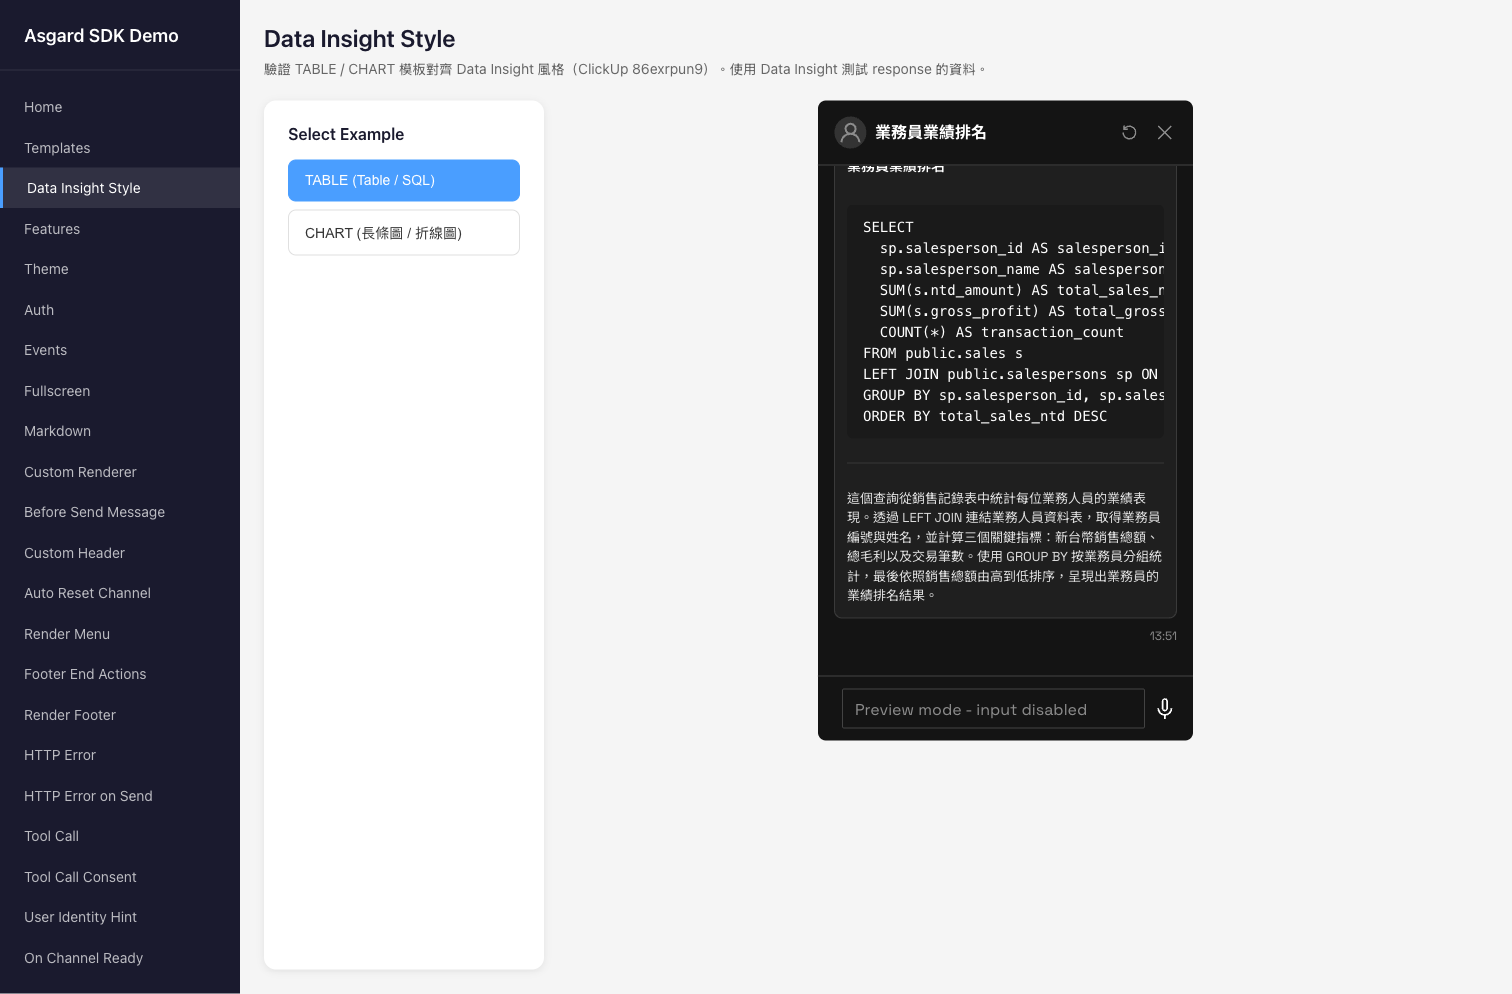
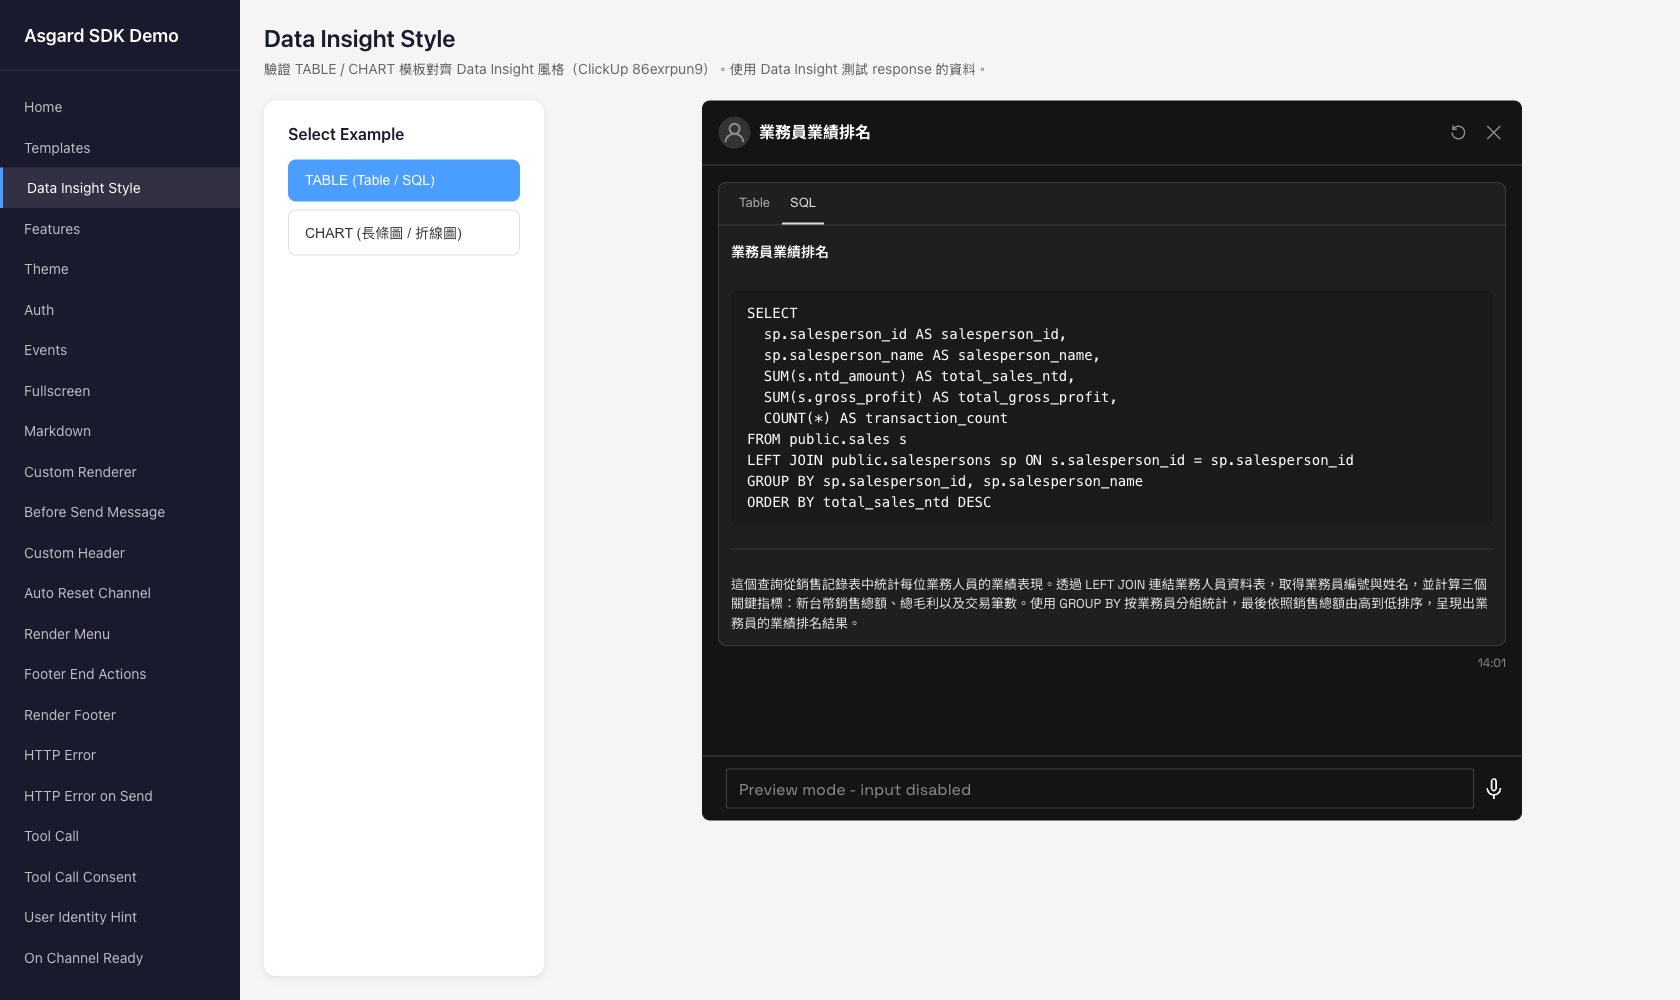
chore(react-demo): widen Data Insight style preview to match Data Insight panel
Data Insight renders the chat as a full-width panel (cards at 90%, charts ~600px). Make the /data-insight-style demo fill a wider box (theme width/height 100%, container max-width 820px) so the preview reflects how TABLE/CHART will look once integrated into Data Insight. Refresh screenshots. The SDK default width (375px) is unchanged; embedders control it via theme.

diff --git a/apps/react-demo/src/app/routes/data-insight-style/data-insight-style.tsx b/apps/react-demo/src/app/routes/data-insight-style/data-insight-style.tsx
@@ -20,6 +20,10 @@ const exampleCreators: Record<ExampleType, () => ReturnType<typeof createDataIns
 // 近似 Data Insight（Mimir）的深色主題，用來目視比對樣式是否對齊。
 const dataInsightTheme: ChatbotTheme = {
   chatbot: {
+    // 讓 chatbot 填滿較寬的容器，模擬整合進 Data Insight（其聊天面板為 w-full）後的寬度。
+    width: '100%',
+    maxWidth: '100%',
+    height: '100%',
     backgroundColor: '#141414',
     borderColor: '#434343',
     inactiveColor: '#8c8c8c',

diff --git a/apps/react-demo/src/app/routes/data-insight-style/data-insight-style.module.scss b/apps/react-demo/src/app/routes/data-insight-style/data-insight-style.module.scss
@@ -51,7 +51,7 @@
 
   > div {
     width: 100%;
-    max-width: 420px;
-    height: 600px;
+    max-width: 820px;
+    height: 720px;
   }
 }
